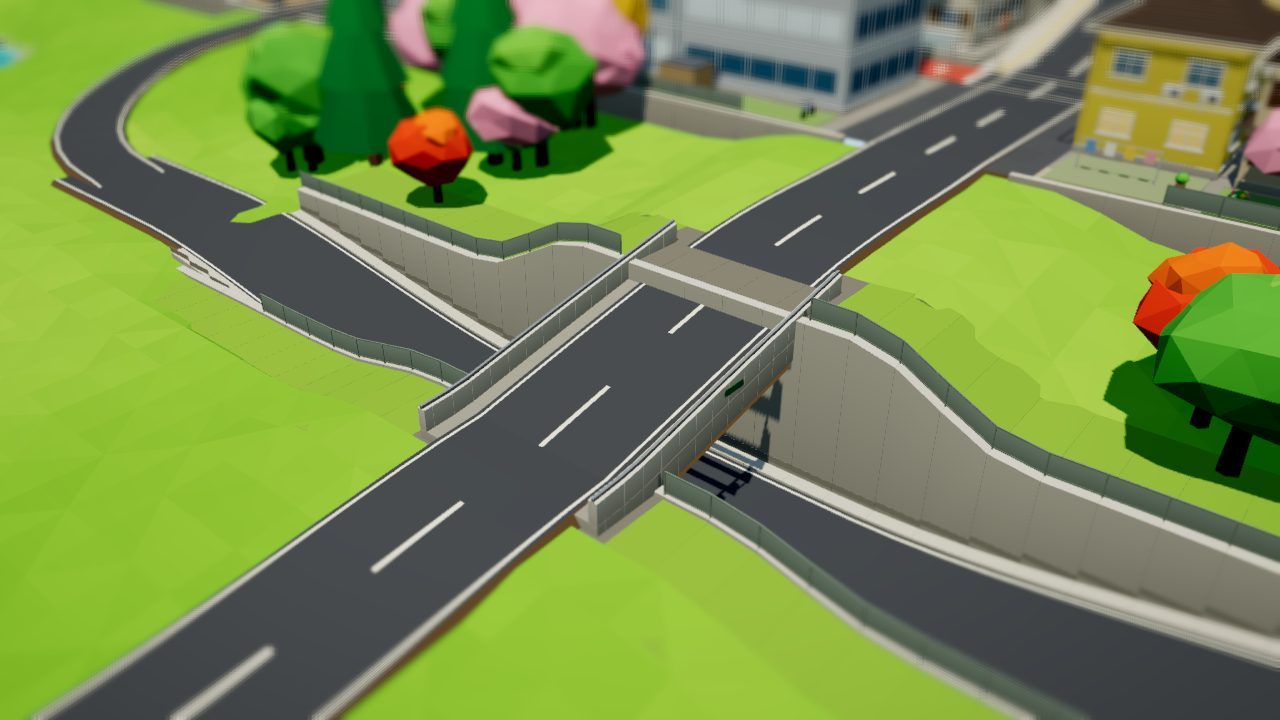
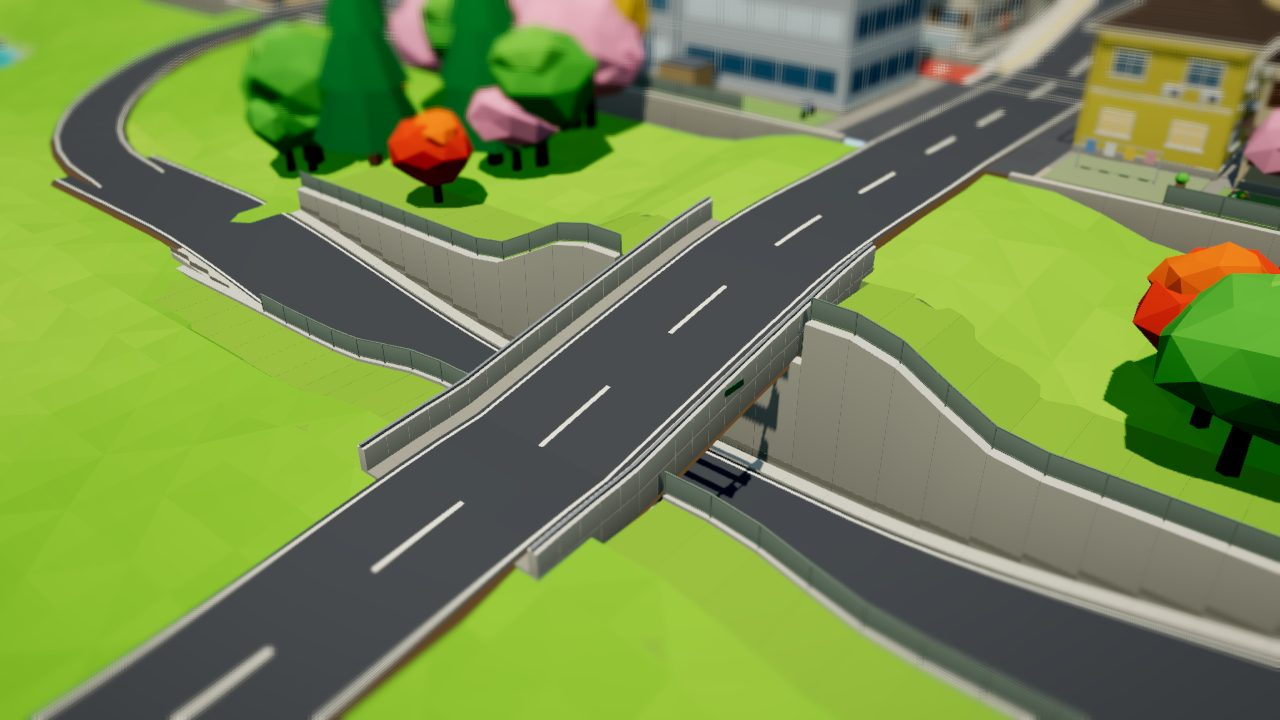
Fix the bump at the ends of the underpass bridge
The abutments had flat tops while the cross street slopes, so on the
uphill end they stuck up through the road like a ramp. The deck now
runs over the whole abutment and the wall and fill stop below it under
the bridge; the road's earth skirts are left off on the bridge.

Claude-Session: https://claude.ai/code/session_01ESHQZwCdtkePerMb739NuD

diff --git a/src/world/village/highway.ts b/src/world/village/highway.ts
@@ -195,12 +195,14 @@ export function buildUnderpass(at: (x: number) => Ctx) {
     const ya = fy(x0), yb = fy(x1);
     for (const s of [-1, 1]) {
       const zo = U.z + s * (U.fill + 0.3);
-      const ta = naturalHeight(x0, zo), tb = naturalHeight(x1, zo);
+      let ta = naturalHeight(x0, zo), tb = naturalHeight(x1, zo);
+      // under the bridge the wall and the fill stop below the deck (which follows the cross street's slope)
+      if (Math.abs(xm - U.x) < 5.2) ta = tb = Math.min(cy(U.z + s * U.wall), cy(U.z + s * (U.fill + 0.3))) - 1.2;
       // the wall with its cap, the fill behind it (its top is the ground), the walkway at its foot
       wallSeg(B, x0, U.z + s * (U.wall + 0.25), x1, U.z + s * (U.wall + 0.25), ya - 0.6, ta + 0.15, yb - 0.6, tb + 0.15, 0.5, '#b9b6ad', '#d2cfc6');
       wallSeg(B, x0, U.z + s * (U.wall + 0.5 + (U.fill - U.wall - 0.5) / 2), x1, U.z + s * (U.wall + 0.5 + (U.fill - U.wall - 0.5) / 2), ya - 0.6, ta, yb - 0.6, tb, U.fill - U.wall - 0.5, '#a9a69c', Math.abs(xm - U.x) < 4.6 ? '#7d7a72' : '#86b24e');
       wallSeg(B, x0, U.z + s * 3.85, x1, U.z + s * 3.85, ya - 0.5, ya + 0.15, yb - 0.5, yb + 0.15, 0.7, '#c4c0b6', '#cfcbc0');
-      if (ta - ya > 1.2 && Math.abs(xm - U.x) > 4.8) fence(at(xm), x0, U.z + s * (U.wall + 0.4), ta + 0.15, x1, U.z + s * (U.wall + 0.4), tb + 0.15, 1.0, '#7d8a80');
+      if (ta - ya > 1.2 && Math.abs(xm - U.x) > 5.2) fence(at(xm), x0, U.z + s * (U.wall + 0.4), ta + 0.15, x1, U.z + s * (U.wall + 0.4), tb + 0.15, 1.0, '#7d8a80');
       // lights on the wall faces, and a dark band of damp at the foot
       if (Math.round(x0) % 8 === 0 && ta - ya > 2.5) at(xm).litB.box(xm, ya + 3.0, U.z + s * (U.wall - 0.02), 1.2, 0.12, 0.08, '#ffffff', { ao: 0 });
       B.box(xm, (ya + yb) / 2 + 0.45, U.z + s * (U.wall - 0.005), step, 0.3, 0.01, '#8f8c84', { ao: 0 });
@@ -208,7 +210,7 @@ export function buildUnderpass(at: (x: number) => Ctx) {
   }
   // the bridge: a deck following the cross street's slope, parapets with a rail, a name plate
   const B = at(U.x).body;
-  const z0 = U.z - U.cut - 0.3, z1 = U.z + U.cut + 0.3;
+  const z0 = U.z - U.fill - 0.3, z1 = U.z + U.fill + 0.3;
   for (let za = z0; za < z1 - 0.01; za += 1) {
     const zb = Math.min(z1, za + 1), ya = cy(za), yb = cy(zb);
     wallSeg(B, U.x, za, U.x, zb, ya - 1.0, ya - 0.01, yb - 1.0, yb - 0.01, 9.2, '#b3b0a7', '#9a978f');

diff --git a/src/world/roads.ts b/src/world/roads.ts
@@ -1,6 +1,6 @@
 import { Group, Mesh, MeshStandardMaterial } from 'three';
 import { GeoBuilder, toRgb, type V3 } from '../util/builder';
-import { getRoads, type RoadPath } from './config';
+import { getRoads, onBridge, type RoadPath } from './config';
 
 const ASPHALT = '#4a4e55';
 
@@ -30,8 +30,11 @@ function ribbon(b: GeoBuilder, p: RoadPath, o: { stoneFrom?: number; center?: 'd
     const stoneCol = stone[Math.floor(i / 1) % 2];
     b.quadFacing(L0, R0, R1, L1, [0, 1, 0], isStone ? stoneCol : toRgb(ASPHALT));
     const drop = 1.4;
-    b.quadFacing(L0, L1, [L1[0] + f1.nx * 1.0, y1 - drop, L1[2] + f1.nz * 1.0], [L0[0] + f0.nx * 1.0, y0 - drop, L0[2] + f0.nz * 1.0], [f0.nx, 0.4, f0.nz], dirt);
-    b.quadFacing(R0, R1, [R1[0] - f1.nx * 1.0, y1 - drop, R1[2] - f1.nz * 1.0], [R0[0] - f0.nx * 1.0, y0 - drop, R0[2] - f0.nz * 1.0], [-f0.nx, 0.4, -f0.nz], dirt);
+    // no earth skirts where the road crosses the bridge over the underpass
+    if (!onBridge(p.x[i], p.z[i]) || p.name !== 'cross') {
+      b.quadFacing(L0, L1, [L1[0] + f1.nx * 1.0, y1 - drop, L1[2] + f1.nz * 1.0], [L0[0] + f0.nx * 1.0, y0 - drop, L0[2] + f0.nz * 1.0], [f0.nx, 0.4, f0.nz], dirt);
+      b.quadFacing(R0, R1, [R1[0] - f1.nx * 1.0, y1 - drop, R1[2] - f1.nz * 1.0], [R0[0] - f0.nx * 1.0, y0 - drop, R0[2] - f0.nz * 1.0], [-f0.nx, 0.4, -f0.nz], dirt);
+    }
     const line = (off: number, cw: number, color: string) => {
       const a: V3 = [p.x[i] + f0.nx * (off + cw), y0 + 0.012, p.z[i] + f0.nz * (off + cw)], c: V3 = [p.x[i] + f0.nx * (off - cw), y0 + 0.012, p.z[i] + f0.nz * (off - cw)];
       const d: V3 = [p.x[i + 1] + f1.nx * (off + cw), y1 + 0.012, p.z[i + 1] + f1.nz * (off + cw)], e: V3 = [p.x[i + 1] + f1.nx * (off - cw), y1 + 0.012, p.z[i + 1] + f1.nz * (off - cw)];

diff --git a/src/world/config.ts b/src/world/config.ts
@@ -238,7 +238,7 @@ export function heightAt(x: number, z: number): number {
 
 /** The natural ground with the roads cut in (what the terrain mesh shows outside the town and the paddies). */
 /** On the bridge over the underpass. */
-export const onBridge = (x: number, z: number) => Math.abs(x - UNDERPASS.x) < 4.6 && Math.abs(z - UNDERPASS.z) < UNDERPASS.cut + 0.3;
+export const onBridge = (x: number, z: number) => Math.abs(x - UNDERPASS.x) < 4.6 && Math.abs(z - UNDERPASS.z) < UNDERPASS.fill + 0.3;
 
 export function naturalHeight(x: number, z: number): number {
   const h = baseHeight(x, z);
